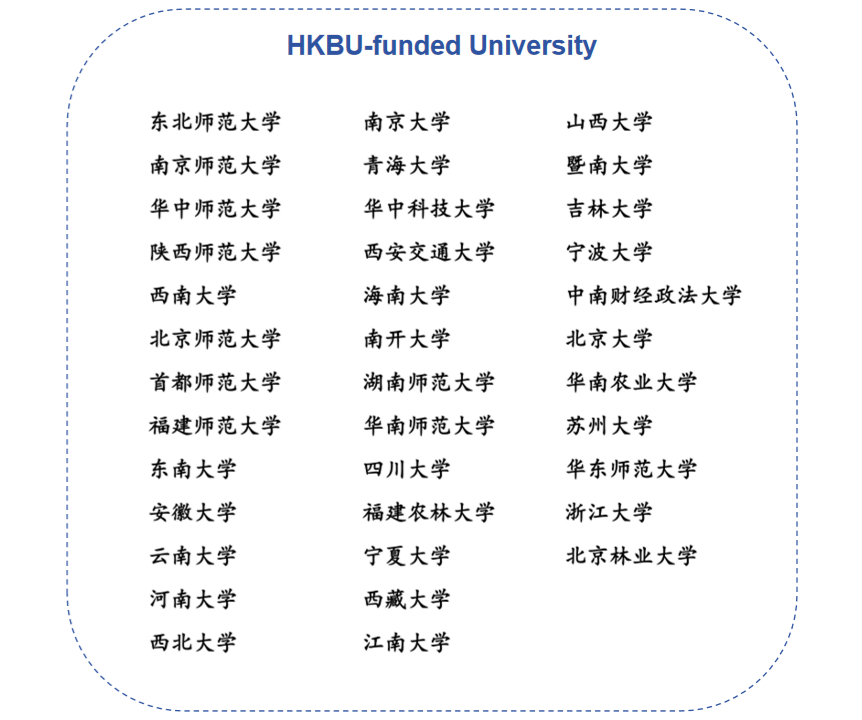
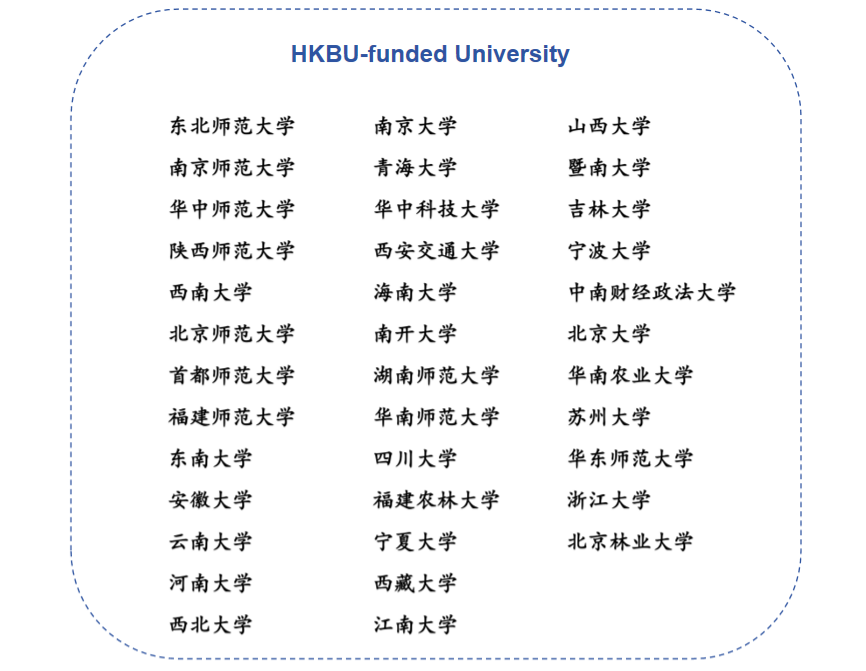
ee

diff --git a/_pages/cv.md b/_pages/cv.md
@@ -4,15 +4,24 @@ title: "Curriculum Vitae"
 author_profile: true
 ---
 
-## Academic positions
+## Education and Professional Experience
+Assistant Professor  
+Hong Kong Baptist University
 
-| Position | Institution |
-|:---|:---|
-| Research Assistant Professor | The University of Science and Technology |
-| ITF Funded Postdoctoral Fellow | The Hong Kong Polytechnic University |
-| Ph.D. | The Hong Kong Polytechnic University |
-| Visiting Student | The University of Melbourne |
-| Visiting Student | The University of East Anglia |
+Research Assistant Professor  
+The Hong Kong University of Science and Technology  
+
+ITF Funded Postdoctoral Fellow  
+The Hong Kong Polytechnic University  
+
+Ph.D.  
+The Hong Kong Polytechnic University  
+
+Visiting Student  
+The University of Melbourne  
+
+Visiting Student  
+The University of East Anglia  
 
 ---
 
@@ -22,7 +31,7 @@ author_profile: true
   Sustainability evaluation, interaction analysis, and scenario-based projection
 
 - **Transboundary Environmental Analysis**  
-  Impacts through transboundary river systems, trade networks, atmospheric flows, and ocean currents
+  Impacts through transboundary river systems, road newtorks, trade networks, atmospheric flows, and ocean currents
 
 - **Carbon Emission Accounting and Mitigation**  
   CO₂ emission inventories, mitigation pathways, and urban carbon reduction strategies

diff --git a/_pages/about.md b/_pages/about.md
@@ -33,7 +33,7 @@ Apply before May 7; Students from the universities listed (see figure below) may
 - Home University-funded:  
 Apply year-round; HKBU can issue an invitation letter to support students in applying for exchange or mobility funding from their home institutions. Many universities offer their own outbound exchange funding schemes, which students are encouraged to explore. 
 - Self-funded:  
-Admission requirements may be relaxed for self-funded applicants. 
+Apply year-round; Admission requirements may be relaxed for self-funded applicants. 
 
 (3) Preferred Candidate    
 Master’s students with the following background are encouraged to apply:
